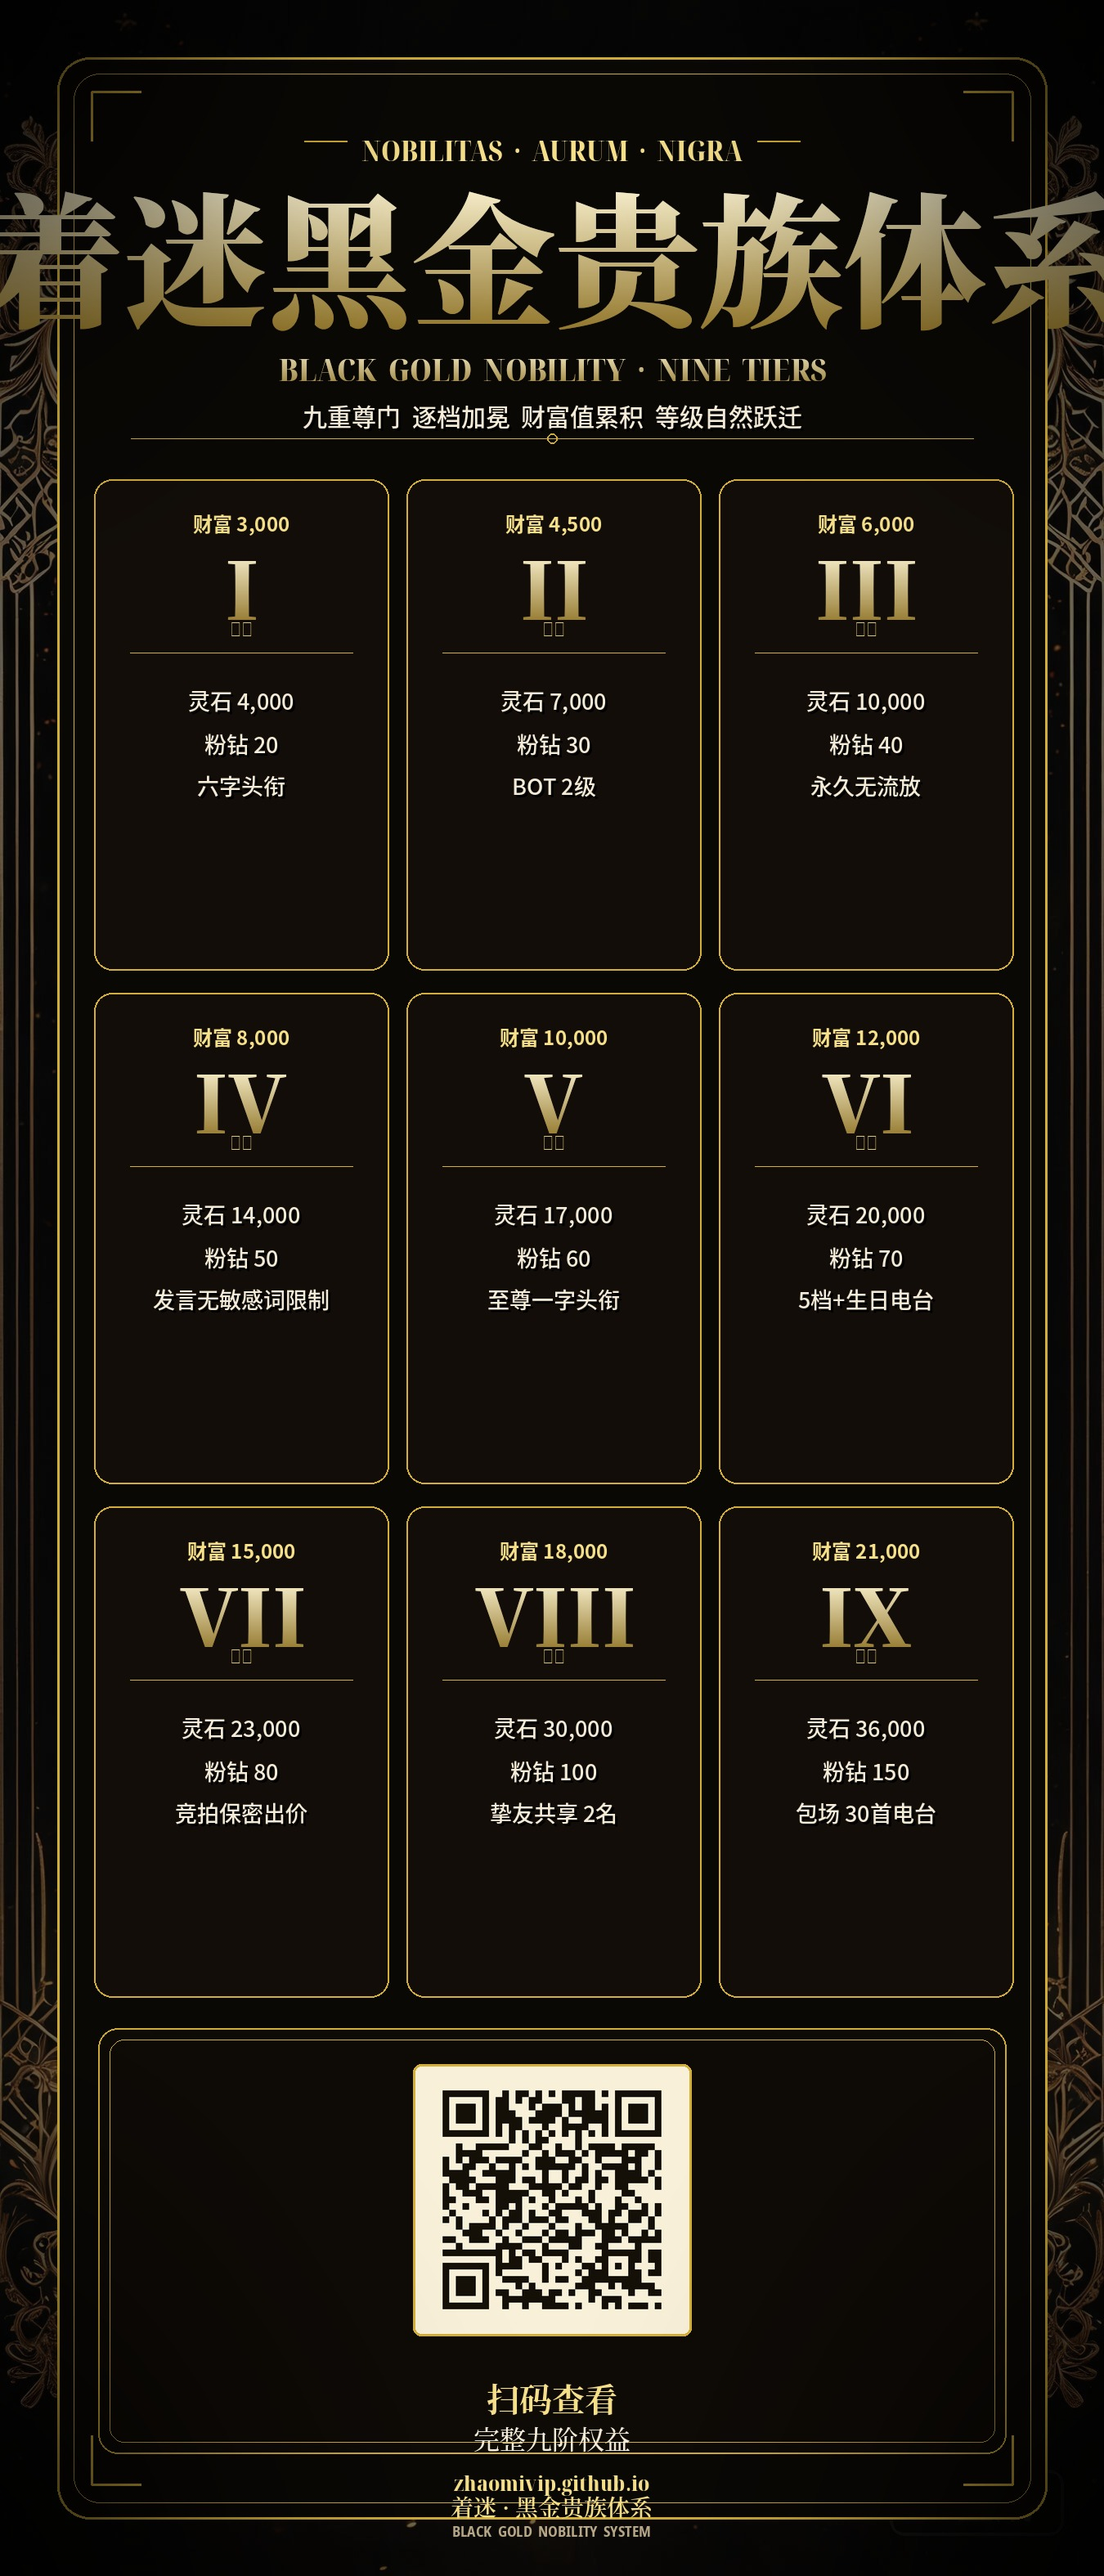
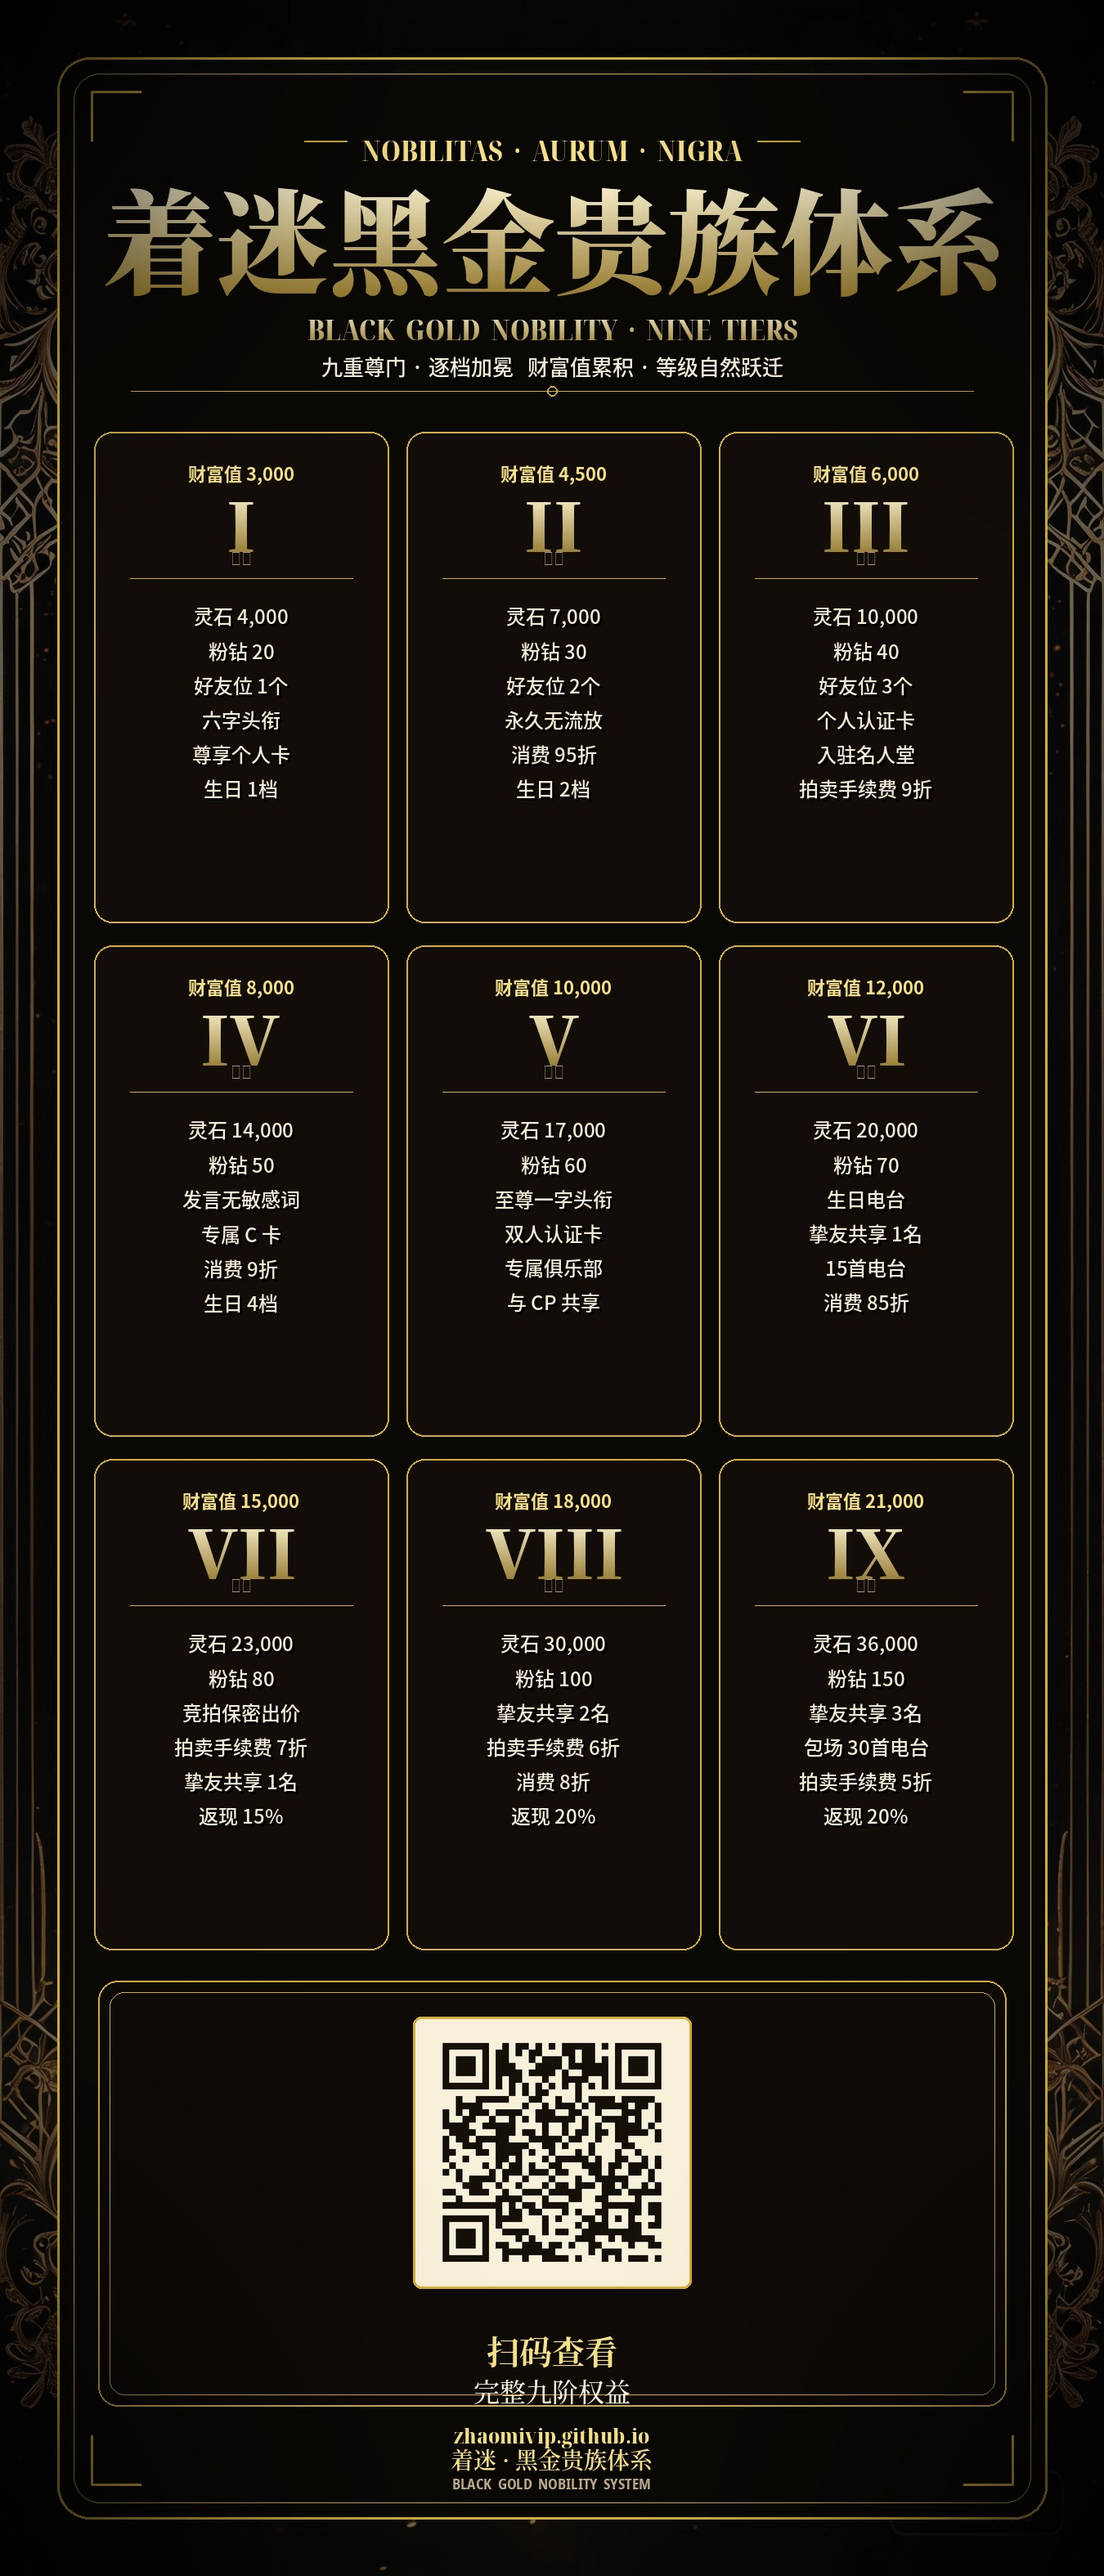
页面改为QQ会员式九阶卡片墙横向滑动；海报缩小标题、九档权益写完整

diff --git a/index.html b/index.html
@@ -222,6 +222,59 @@ td .sub{font-family:var(--latin);font-size:10px;color:var(--muted);letter-spacin
 /* 等级高亮列 */
 .col-hl{box-shadow:inset 0 0 0 1px var(--gold-line-strong);background:rgba(212,175,55,.06)!important}
 
+/* 九阶黑金卡片墙 */
+.wall-scroll{
+  display:flex;gap:18px;padding:6px 4px 28px;
+  overflow-x:auto;scroll-snap-type:x mandatory;
+  -webkit-overflow-scrolling:touch;
+  max-width:100%;
+}
+.wall-scroll::-webkit-scrollbar{height:8px}
+.wall-scroll::-webkit-scrollbar-track{background:rgba(0,0,0,.4);border-radius:8px}
+.wall-scroll::-webkit-scrollbar-thumb{background:linear-gradient(90deg,var(--gold-deep),var(--gold));border-radius:8px}
+.wall-hint{text-align:center;font-family:var(--latin);font-size:12px;letter-spacing:.3em;color:var(--dim);margin-bottom:40px}
+
+.tier-card{
+  flex:0 0 300px;scroll-snap-align:start;
+  position:relative;border-radius:18px;padding:28px 24px;
+  background:linear-gradient(165deg,rgba(24,17,9,.96),rgba(10,7,4,.92));
+  border:1px solid var(--gold-line);
+  display:flex;flex-direction:column;
+  transition:transform .3s,box-shadow .3s,border-color .3s;
+  overflow:hidden;
+}
+.tier-card:hover{transform:translateY(-6px);border-color:var(--gold-line-strong);box-shadow:0 24px 50px rgba(0,0,0,.6)}
+.tier-card::before{content:"";position:absolute;inset:0;background:radial-gradient(130% 60% at 50% -5%,rgba(212,175,55,.16),transparent 60%);pointer-events:none}
+.tier-card .tier-no{font-family:var(--latin);font-weight:700;font-size:12px;letter-spacing:.3em;color:var(--gold-soft);text-align:center}
+.tier-card .tier-rom{
+  font-family:var(--serif);font-weight:900;text-align:center;margin:8px 0 4px;
+  font-size:clamp(44px,7vw,64px);line-height:1;
+  background:linear-gradient(180deg,#fff7d6,var(--gold) 65%,var(--gold-deep));
+  -webkit-background-clip:text;background-clip:text;color:transparent;
+}
+.tier-card .tier-name{font-family:var(--serif);font-weight:600;text-align:center;color:var(--gold-bright);font-size:18px;letter-spacing:.1em}
+.tier-card .tier-group{font-family:var(--latin);font-size:11px;letter-spacing:.3em;color:var(--muted);text-align:center;margin-top:3px}
+.tier-card .tier-wealth{text-align:center;margin:14px 0 16px;font-family:var(--serif);font-weight:600;color:var(--cream);font-size:15px}
+.tier-card .tier-wealth b{color:var(--gold-bright)}
+.tier-card .tier-divider{height:1px;margin:0 10px 16px;background:linear-gradient(90deg,transparent,var(--gold-line-strong),transparent)}
+.tier-card .tier-benefits{display:flex;flex-direction:column;gap:10px}
+.tier-card .ben-item{display:flex;align-items:flex-start;gap:10px;font-size:13px;line-height:1.55;color:var(--cream)}
+.tier-card .ben-item .tick{flex:0 0 auto;color:var(--gold-bright);font-family:var(--latin);font-weight:700;margin-top:1px;font-size:13px}
+.tier-card .ben-item .bv{color:var(--gold-bright);font-weight:600;font-family:var(--serif)}
+.tier-card .ben-empty{font-size:12px;color:var(--dim);text-align:center;font-style:italic}
+/* 等级递进视觉：越高级光晕越强 */
+.tier-card.lv-5,.tier-card.lv-6,.tier-card.lv-7{box-shadow:0 0 0 1px var(--gold-line-strong) inset,0 12px 30px rgba(0,0,0,.5)}
+.tier-card.lv-8,.tier-card.lv-9{box-shadow:0 0 0 1.5px var(--gold) inset,0 0 30px rgba(212,175,55,.15),0 16px 36px rgba(0,0,0,.55)}
+.tier-card.lv-9::after{content:"至尊";position:absolute;top:14px;right:14px;font-family:var(--serif);font-size:11px;letter-spacing:.2em;color:#1a130a;background:linear-gradient(180deg,var(--gold-bright),var(--gold));padding:3px 10px;border-radius:20px;font-weight:700}
+
+/* 折叠对比表 */
+.cmp-details{margin-top:30px;border:1px solid var(--gold-line);border-radius:14px;padding:18px 24px;background:rgba(14,10,6,.5)}
+.cmp-details summary{cursor:pointer;font-family:var(--serif);color:var(--gold);font-size:15px;letter-spacing:.08em;list-style:none}
+.cmp-details summary::-webkit-details-marker{display:none}
+.cmp-details summary::before{content:"▸ ";color:var(--gold-soft)}
+.cmp-details[open] summary::before{content:"▾ "}
+.cmp-details .tier-tabs{margin-top:20px}
+
 /* tier 选择条 */
 .tier-tabs{display:flex;flex-wrap:wrap;gap:10px;justify-content:center;margin-bottom:24px}
 .tier-tabs button{
@@ -324,15 +377,21 @@ footer .copy{margin-top:22px;font-size:11px;color:var(--dim);letter-spacing:.08e
   <div class="feature-grid" id="featureEl"></div>
 </section>
 
-<!-- 全档对比 -->
+<!-- 九阶黑金卡片墙 -->
 <section id="compare">
-  <div class="eyebrow">FULL COMPARISON</div>
-  <h2 class="section-title">全档权益对比</h2>
-  <p class="section-sub">点亮任一等级，横向一览其专属权益；横向滑动查看全部九档。</p>
-  <div class="tier-tabs" id="tierTabs"></div>
-  <div class="table-wrap" id="tableWrap">
-    <table id="cmpTable"></table>
-  </div>
+  <div class="eyebrow">NINE TIER WALL</div>
+  <h2 class="section-title">九阶黑金 · 逐级尊享</h2>
+  <p class="section-sub">横向滑动浏览九档黑金，每档卡片完整罗列该等级全部权益；等级越高，权益越丰、荣光越盛。</p>
+  <div class="wall-scroll" id="wallScroll"></div>
+  <div class="wall-hint">← 左右滑动查看全部九档 →</div>
+
+  <details class="cmp-details">
+    <summary>查看完整权益对比表</summary>
+    <div class="tier-tabs" id="tierTabs"></div>
+    <div class="table-wrap" id="tableWrap">
+      <table id="cmpTable"></table>
+    </div>
+  </details>
 </section>
 
 <!-- 晋升之路 -->
@@ -495,56 +554,85 @@ const fmt=v=>v!=null?v.toLocaleString('en-US'):'' ;
   });
 })();
 
-/* tier tabs + 表格 */
+/* 九阶黑金卡片墙（横向滑动，逐档完整权益） */
 (function(){
-  const tabs=$('#tierTabs');
+  const wall=$('#wallScroll');
   TIERS.forEach((t,i)=>{
-    const b=document.createElement('button');
-    b.textContent=`黑金 ${t.id}`;b.dataset.idx=i;
-    if(i===0)b.classList.add('active');
-    b.onclick=()=>{document.querySelectorAll('.tier-tabs button').forEach(x=>x.classList.remove('active'));b.classList.add('active');highlightCol(i);};
-    tabs.appendChild(b);
-  });
-
-  const tbl=$('#cmpTable');
-  // thead
-  let html='<thead><tr>';
-  html+='<th class="cat">权益类别</th><th class="label">权益项</th>';
-  TIERS.forEach(t=>{html+=`<th><div class="tg">${t.group}</div><div class="tn">黑金 ${t.id}</div><div class="tw">WEALTH ${fmt(t.wealth)}</div></th>`;});
-  html+='</tr></thead><tbody>';
-  // body
-  let prevCat=null;
-  BENEFITS.forEach(b=>{
-    if(b.cat!==prevCat){
-      html+=`<tr class="cat-head"><td colspan="${TIERS.length+2}"><span class="cn">${b.cat}</span><span class="ce">${b.catEn}</span></td></tr>`;
-      prevCat=b.cat;
-    }
-    html+=`<tr><td class="cat">${b.cat}</td><td class="label">${b.item}</td>`;
-    b.vals.forEach(v=>{
-      let cell;
-      if(v===null||v==='—') cell=`<span class="no"></span>`;
-      else if(v==='✔') cell=`<span class="yes"></span>`;
-      else if(b.kind==='num') cell=`<span class="num">${v}</span>`;
-      else cell=`<span class="txt">${v}</span>`;
-      html+=`<td>${cell}</td>`;
+    const card=document.createElement('div');
+    card.className=`tier-card lv-${i+1}`;
+    // 收集该等级拥有的全部权益
+    const items=[];
+    BENEFITS.forEach(b=>{
+      const v=b.vals[i];
+      if(v===null||v==='—') return;       // 该等级无此权益
+      if(v==='✔') items.push({name:b.item,val:null}); // 纯享权益，无具体值
+      else items.push({name:b.item,val:v});           // 有具体数值/档位
     });
-    html+='</tr>';
-  });
-  html+='</tbody>';
-  tbl.innerHTML=html;
+    // 另外把 ✔ 类型权益也收集（上面已处理）
+    const listHtml = items.length? items.map(it=>`
+      <div class="ben-item"><span class="tick">✓</span><span>${it.name}${it.val?` <span class="bv">${it.val}</span>`:''}</span></div>
+    `).join('') : '<div class="ben-empty">达成即享基础礼遇</div>';
 
-  function highlightCol(idx){
-    const cols=TIERS.length+2;
-    document.querySelectorAll('#cmpTable tbody tr').forEach(tr=>{
-      tr.querySelectorAll('td').forEach((td,ci)=>{
-        if(ci>=2) td.classList.toggle('col-hl', ci-2===idx);
+    card.innerHTML=`
+      <div class="tier-no">BLACK GOLD TIER</div>
+      <div class="tier-rom">${t.id}</div>
+      <div class="tier-name">黑金 ${t.id}</div>
+      <div class="tier-group">${t.group} · ${t.card}</div>
+      <div class="tier-wealth">财富值 <b>${fmt(t.wealth)}</b></div>
+      <div class="tier-divider"></div>
+      <div class="tier-benefits">${listHtml}</div>
+    `;
+    wall.appendChild(card);
+  });
+})();
+
+/* 折叠完整对比表（展开时渲染） */
+(function(){
+  const det=document.querySelector('.cmp-details');
+  let built=false;
+  det.addEventListener('toggle',()=>{
+    if(det.open && !built){ built=true; buildTable(); }
+  });
+  function buildTable(){
+    const tabs=$('#tierTabs');
+    TIERS.forEach((t,i)=>{
+      const b=document.createElement('button');
+      b.textContent=`黑金 ${t.id}`;b.dataset.idx=i;
+      if(i===0)b.classList.add('active');
+      b.onclick=()=>{document.querySelectorAll('.tier-tabs button').forEach(x=>x.classList.remove('active'));b.classList.add('active');highlightCol(i);};
+      tabs.appendChild(b);
+    });
+    const tbl=$('#cmpTable');
+    let html='<thead><tr><th class="cat">权益类别</th><th class="label">权益项</th>';
+    TIERS.forEach(t=>{html+=`<th><div class="tg">${t.group}</div><div class="tn">黑金 ${t.id}</div><div class="tw">WEALTH ${fmt(t.wealth)}</div></th>`;});
+    html+='</tr></thead><tbody>';
+    let prevCat=null;
+    BENEFITS.forEach(b=>{
+      if(b.cat!==prevCat){
+        html+=`<tr class="cat-head"><td colspan="${TIERS.length+2}"><span class="cn">${b.cat}</span><span class="ce">${b.catEn}</span></td></tr>`;
+        prevCat=b.cat;
+      }
+      html+=`<tr><td class="cat">${b.cat}</td><td class="label">${b.item}</td>`;
+      b.vals.forEach(v=>{
+        let cell;
+        if(v===null||v==='—') cell=`<span class="no"></span>`;
+        else if(v==='✔') cell=`<span class="yes"></span>`;
+        else if(b.kind==='num') cell=`<span class="num">${v}</span>`;
+        else cell=`<span class="txt">${v}</span>`;
+        html+=`<td>${cell}</td>`;
       });
+      html+='</tr>';
     });
-    document.querySelectorAll('#cmpTable thead th').forEach((th,ci)=>{
-      if(ci>=2) th.classList.toggle('col-hl', ci-2===idx);
-    });
+    html+='</tbody>';
+    tbl.innerHTML=html;
+    highlightCol(0);
   }
-  highlightCol(0);
+  function highlightCol(idx){
+    document.querySelectorAll('#cmpTable tbody tr').forEach(tr=>{
+      tr.querySelectorAll('td').forEach((td,ci)=>{if(ci>=2) td.classList.toggle('col-hl',ci-2===idx);});
+    });
+    document.querySelectorAll('#cmpTable thead th').forEach((th,ci)=>{if(ci>=2) th.classList.toggle('col-hl',ci-2===idx);});
+  }
 })();
 
 /* 晋升 */
